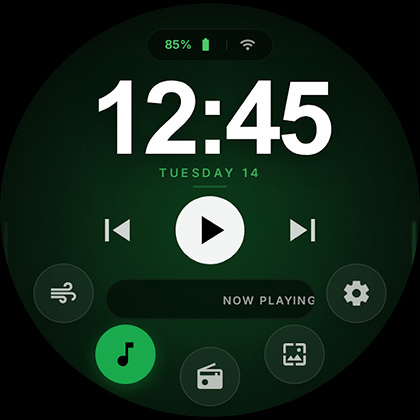
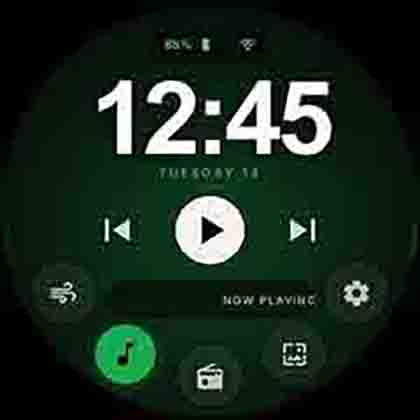
可以显示 420*420 的 jpg 图片和 240*240 的 png 图片版本. 下一步移植esp_lv_decoder进来.试试速度.

diff --git a/ESP/HexSonic/main/lvgl_img_jpeg_png_test.c b/ESP/HexSonic/main/lvgl_img_jpeg_png_test.c
@@ -15,50 +15,6 @@ static const char *TAG = "lvgl_img_test";
 static lv_obj_t *img_obj = NULL;
 static bool showing_png = true;
 
-/* -------------------------- LVGL 文件系统驱动回调 -------------------------- */
-static void *fs_open(lv_fs_drv_t *drv, const char *path, lv_fs_mode_t mode)
-{
-    char full_path[64];
-    snprintf(full_path, sizeof(full_path), "%s/%s", SPIFFS_MOUNT_POINT, path);
-    ESP_LOGI(TAG, "[FS] 打开: %s", full_path);
-
-    FILE *f = NULL;
-    if (mode == LV_FS_MODE_WR) f = fopen(full_path, "wb");
-    else if (mode == LV_FS_MODE_RD) f = fopen(full_path, "rb");
-    else if (mode == (LV_FS_MODE_WR|LV_FS_MODE_RD)) f = fopen(full_path, "rb+");
-
-    if (!f) ESP_LOGE(TAG, "[FS] 打开失败: %s", full_path);
-    return f;
-}
-
-static lv_fs_res_t fs_close(lv_fs_drv_t *drv, void *file_p)
-{
-    if (!file_p) return LV_FS_RES_INV_PARAM;
-    ESP_LOGI(TAG, "[FS] 关闭文件");
-    return (fclose((FILE*)file_p) == 0) ? LV_FS_RES_OK : LV_FS_RES_UNKNOWN;
-}
-
-static lv_fs_res_t fs_read(lv_fs_drv_t *drv, void *file_p, void *buf, uint32_t btr, uint32_t *br)
-{
-    if (!file_p || !buf || !br) return LV_FS_RES_INV_PARAM;
-    *br = fread(buf, 1, btr, (FILE*)file_p);
-    // ESP_LOGI(TAG, "[FS] 读取: 请求%u, 实际%u", btr, *br); // 太刷屏可注释
-    return LV_FS_RES_OK;
-}
-
-static lv_fs_res_t fs_seek(lv_fs_drv_t *drv, void *file_p, uint32_t pos, lv_fs_whence_t whence)
-{
-    if (!file_p) return LV_FS_RES_INV_PARAM;
-    int w = (whence==LV_FS_SEEK_SET)?SEEK_SET:(whence==LV_FS_SEEK_CUR)?SEEK_CUR:SEEK_END;
-    return (fseek((FILE*)file_p, pos, w) == 0) ? LV_FS_RES_OK : LV_FS_RES_UNKNOWN;
-}
-
-static lv_fs_res_t fs_tell(lv_fs_drv_t *drv, void *file_p, uint32_t *pos_p)
-{
-    if (!file_p || !pos_p) return LV_FS_RES_INV_PARAM;
-    *pos_p = (uint32_t)ftell((FILE*)file_p);
-    return LV_FS_RES_OK;
-}
 
 /* -------------------------- 按钮切换回调 -------------------------- */
 static void toggle_img(lv_event_t *e)
@@ -95,20 +51,6 @@ void lvgl_img_jpeg_png_test_init(void)
     esp_spiffs_info(SPIFFS_PART_LABEL, &total, &used);
     ESP_LOGI(TAG, "SPIFFS: 总%u, 已用%u", total, used);
 
-    // 2. 注册 LVGL 文件系统
-    static lv_fs_drv_t fs_drv;
-    lv_fs_drv_init(&fs_drv);
-    fs_drv.letter = LV_FS_LETTER;
-    fs_drv.open_cb = fs_open;
-    fs_drv.close_cb = fs_close;
-    fs_drv.read_cb = fs_read;
-    fs_drv.seek_cb = fs_seek;
-    fs_drv.tell_cb = fs_tell;
-    lv_fs_drv_register(&fs_drv);
-    ESP_LOGI(TAG, "LVGL 文件系统已注册 (S:)");
-
-
-    ESP_LOGI(TAG, "LVGL 解码器已初始化");
 
     // 4. 创建 UI
     img_obj = lv_image_create(lv_scr_act());

diff --git a/ESP/HexSonic/main/main.c b/ESP/HexSonic/main/main.c
@@ -2,12 +2,14 @@
 #include "lvgl_img_jpeg_png_test.h"  // 重命名
 #include "freertos/FreeRTOS.h"
 #include "freertos/task.h"
+#include "esp_lvgl_port.h"
 
 void app_main(void)
 {
     driver_lcd_touch_init();
+    lvgl_port_lock(0);
     lvgl_img_jpeg_png_test_init();   // 新函数名
-
+    lvgl_port_unlock();
     while (1) {
         vTaskDelay(pdMS_TO_TICKS(1000));
     }
